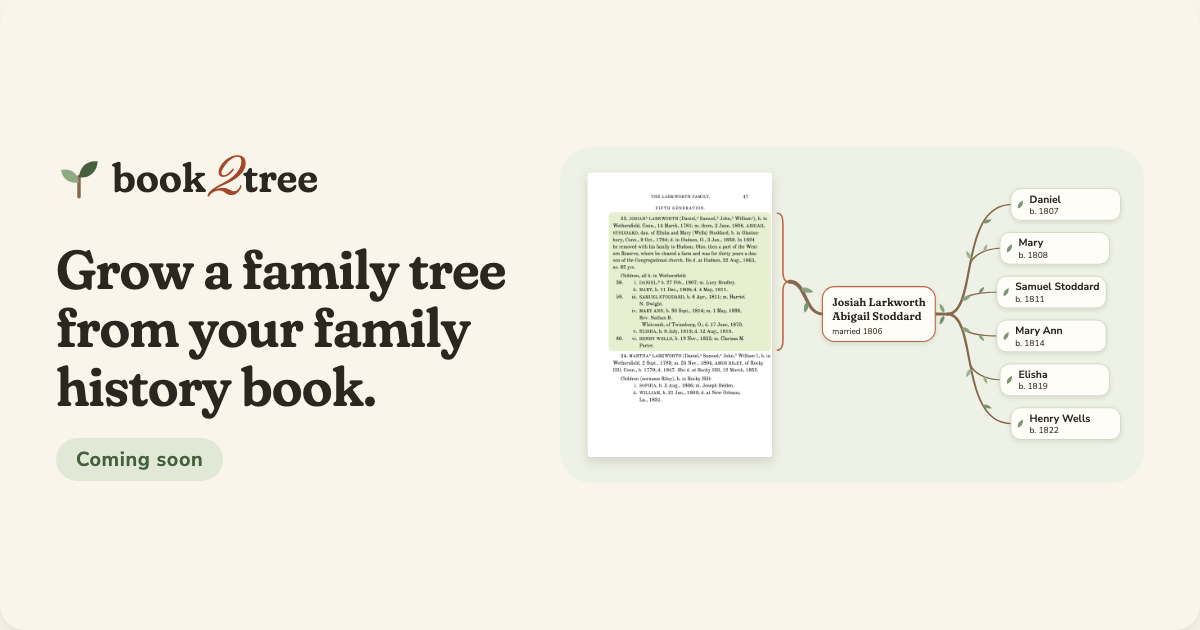
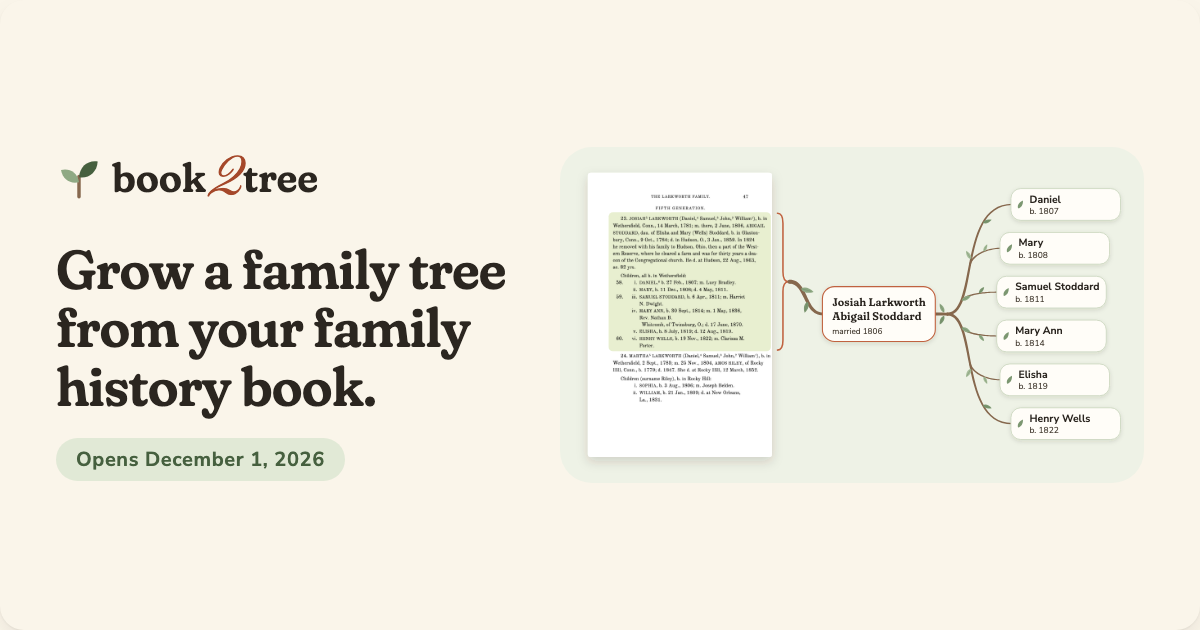
Say who runs book2tree, that uploads stay private, and the launch date
The footer and a new FAQ answer name GeneFun, Inc. and Dallan Quass as the contact (the
address is entity-encoded against naive scrapers). The upload step and a new FAQ answer
say uploads and results are private to the uploader and never shared or sold. The
launch date, December 1, 2026, replaces "coming soon" in the badge, under the button,
in the FAQ, in the meta description and on the regenerated link-preview image.

Changed region(s): [[0.0617, 0.6937, 0.3083, 0.7841]]

diff --git a/index.html b/index.html
@@ -4,7 +4,7 @@
   <meta charset="utf-8">
   <meta name="viewport" content="width=device-width, initial-scale=1">
   <title>book2tree: grow a family tree from your family history book</title>
-  <meta name="description" content="Upload a scanned PDF of a family history book. A few hours later, download a first draft of its family tree as a GEDCOM file, plus the full text and spreadsheets of everyone it names. Coming soon.">
+  <meta name="description" content="Upload a scanned PDF of a family history book. A few hours later, download a first draft of its family tree as a GEDCOM file, plus the full text and spreadsheets of everyone it names. Opens December 1, 2026.">
   <meta property="og:type" content="website">
   <meta property="og:title" content="book2tree: grow a family tree from your family history book">
   <meta property="og:description" content="Upload a scanned PDF of a family history book. A few hours later, download a first draft of its family tree as a GEDCOM file, plus the full text and spreadsheets of everyone it names.">
@@ -12,7 +12,7 @@
   <meta property="og:image" content="https://book2tree.com/assets/social-card.png">
   <meta property="og:image:width" content="1200">
   <meta property="og:image:height" content="630">
-  <meta property="og:image:alt" content="book2tree: grow a family tree from your family history book. Coming soon.">
+  <meta property="og:image:alt" content="book2tree: grow a family tree from your family history book. Opens December 1, 2026.">
   <meta name="twitter:card" content="summary_large_image">
   <link rel="canonical" href="https://book2tree.com/">
   <meta name="theme-color" content="#faf5ea">
@@ -63,7 +63,7 @@
   <header class="site-header">
     <div class="wrap header-in">
       <a class="wordmark" href="./"><svg class="mark" aria-hidden="true"><use href="#i-sprout"/></svg><span class="wm-text">book<span class="two">2</span>tree</span></a>
-      <span class="soon">Coming soon</span>
+      <span class="soon">Opens Dec. 1</span>
     </div>
   </header>
 
@@ -76,7 +76,7 @@
           <!-- The sign-up form (Google Forms); the same link is used twice more further down. -->
           <a class="button" href="https://forms.gle/DX1Hvcd5wsC8ZeZDA">Notify me when it launches</a>
         </p>
-        <p class="fine">We’ll email you when it opens.</p>
+        <p class="fine">Opens December 1, 2026. We’ll email you when it does.</p>
 
         <figure class="art">
           <figcaption class="art-label"><strong>Example:</strong> an invented family</figcaption>
@@ -147,7 +147,7 @@
           <li>
             <span class="num">2</span>
             <h3>Upload it</h3>
-            <p>There’s nothing to set up and nothing to install.</p>
+            <p>It stays private to you. We don’t share or sell your data.</p>
           </li>
           <li>
             <span class="num">3</span>
@@ -240,6 +240,11 @@
               so you can check before you rely on anything.</p>
           </details>
           <details>
+            <summary>Who can see my book and results?</summary>
+            <p>Only you. The PDFs you upload and everything made from them are private to you.
+              We don’t share or sell your data.</p>
+          </details>
+          <details>
             <summary>Which genealogy programs can open the GEDCOM file?</summary>
             <p>GEDCOM is the standard format for sharing family trees. Nearly every genealogy program and
               family tree website can import it.</p>
@@ -250,8 +255,13 @@
           </details>
           <details>
             <summary>When does it launch?</summary>
-            <p>Soon. <a href="https://forms.gle/DX1Hvcd5wsC8ZeZDA">Leave your email</a>
-              and we’ll tell you the day it opens.</p>
+            <p>December 1, 2026. <a href="https://forms.gle/DX1Hvcd5wsC8ZeZDA">Leave your email</a>
+              and we’ll let you know when it’s open.</p>
+          </details>
+          <details>
+            <summary>Who makes book2tree?</summary>
+            <p>book2tree is a service of <a href="https://genefun.com">GeneFun, Inc.</a> Questions?
+              Email Dallan Quass at <a href="mailto:dallan&#64;genefun.com">dallan&#64;genefun.com</a>.</p>
           </details>
         </div>
       </div>
@@ -271,7 +281,11 @@
   </main>
 
   <footer class="site-footer">
-    <div class="wrap"><p>© 2026 book2tree</p></div>
+    <div class="wrap">
+      <p>book2tree is a service of <a href="https://genefun.com">GeneFun, Inc.</a></p>
+      <p>Questions? Email Dallan Quass at <a href="mailto:dallan&#64;genefun.com">dallan&#64;genefun.com</a>.</p>
+      <p class="copy">© 2026 GeneFun, Inc.</p>
+    </div>
   </footer>
 
   <script src="assets/sample.js" defer></script>

diff --git a/assets/site.css b/assets/site.css
@@ -278,6 +278,9 @@ tbody tr:last-child td { border-bottom: 0; }
 
 .site-footer { padding-bottom: 44px; color: var(--soft); text-align: center; font-size: 0.95rem; }
 .site-footer p { margin: 0; }
+.site-footer p + p { margin-top: 6px; }
+.site-footer a { font-weight: 700; }
+.site-footer .copy { margin-top: 14px; font-size: 0.9rem; }
 
 /* ---------- tablets and phones ---------- */
 @media (max-width: 960px) {

diff --git a/_src/make_social_card.py b/_src/make_social_card.py
@@ -23,6 +23,8 @@ def main() -> None:
     sprite = re.search(r'<svg class="sprite".*?</svg>', page, re.S).group(0)
     art = re.search(r'<svg class="art-wide".*?</svg>', page, re.S).group(0)
     fonts = "\n".join(re.findall(r'<link rel="stylesheet" href="https://fonts[^>]+>', page))
+    # the launch date, taken from the line under the hero button ("Opens December 1, 2026")
+    soon = re.search(r'<p class="fine">(Opens [^.]+\d{4})', page).group(1)
     css = (SITE / "assets" / "site.css").resolve().as_uri()
     # <base> makes the art's relative image path (sample/page.jpg) resolve to the site root.
     html = f"""<!doctype html><html><head><meta charset="utf-8"><base href="{SITE.as_uri()}/">{fonts}
@@ -41,7 +43,7 @@ def main() -> None:
 <div class="card"><div>
   <div class="wordmark"><svg class="mark" aria-hidden="true"><use href="#i-sprout"/></svg><span class="wm-text">book<span class="two">2</span>tree</span></div>
   <h1>Grow a family tree from your family history book.</h1>
-  <span class="soon">Coming soon</span>
+  <span class="soon">{soon}</span>
 </div><figure class="art">{art}</figure></div></body></html>"""
     with tempfile.TemporaryDirectory() as tmp:
         src = Path(tmp) / "card.html"

diff --git a/BRIEF.md b/BRIEF.md
@@ -17,6 +17,12 @@ Internal working notes. `_config.yml` keeps this file off the published site.
 - **Call to action:** a "Notify me when it launches" button that links to a one-question
   Google Form (email address). Answers land in a Google Sheet. No form code on the site.
 - **Price:** not mentioned. The FAQ says pricing will be announced before launch.
+- **Who:** book2tree is a service of GeneFun, Inc. (https://genefun.com). Contact: Dallan Quass,
+  dallan@genefun.com. Shown in the footer and the FAQ.
+- **Privacy:** the PDFs people upload and everything made from them are private to the person
+  who uploaded them; we don't share or sell data. Said at the upload step and in the FAQ.
+- **Launch:** December 1, 2026. "Opens Dec. 1" in the header badge, and the full date under the
+  button, in the FAQ and on the link-preview image.
 - **Sample:** `sample/` holds placeholders (an invented family, labeled as invented on its
   title page). They will be replaced with real files from a real book.
 - **Hosting:** GitHub Pages from `PioneerAIContractors/book-to-tree-www`, at book2tree.com
@@ -49,10 +55,8 @@ Internal working notes. `_config.yml` keeps this file off the published site.
 
 ## Still open
 
-- What happens to uploaded PDFs and outputs (how long they're kept, deletion), and to living
-  people in a tree. Decide before the FAQ promises anything.
-- Who is behind the page, and a contact address.
-- Launch timing: give a date or not.
+- How long uploads and outputs are kept, and whether people can delete them. The page promises
+  only that they're private and never shared or sold.
 
 ## Next
 
